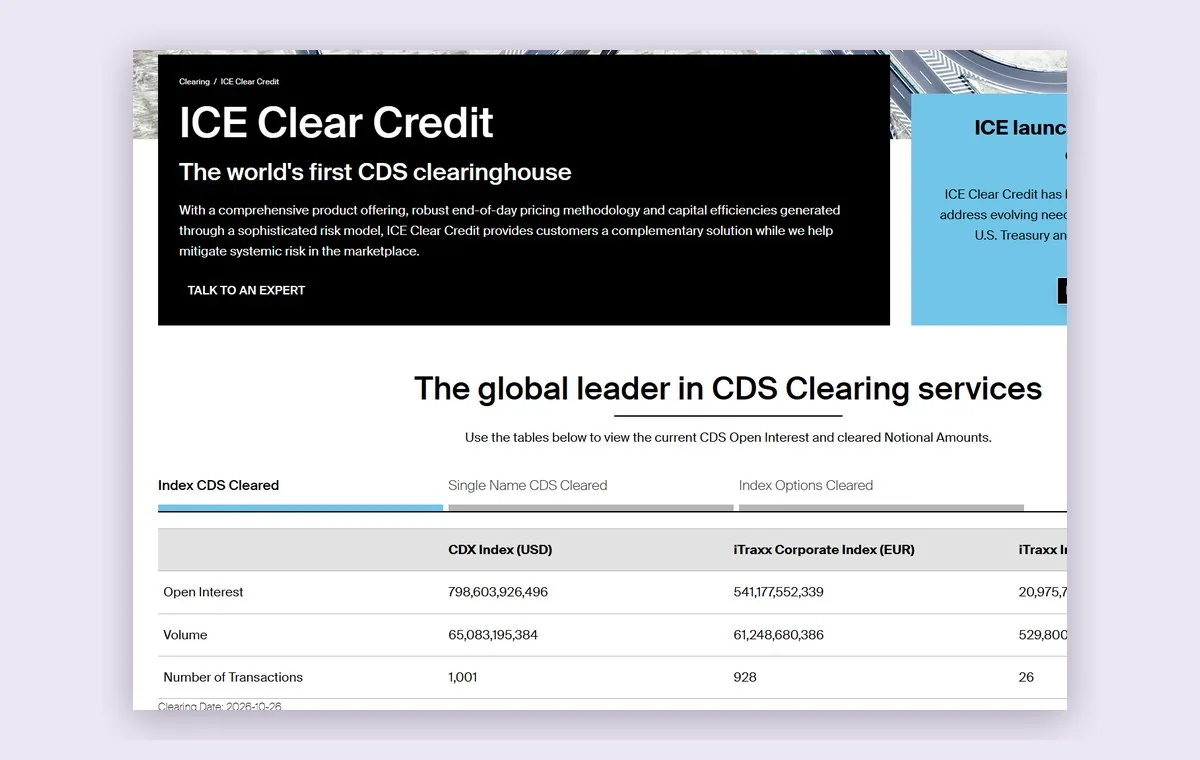
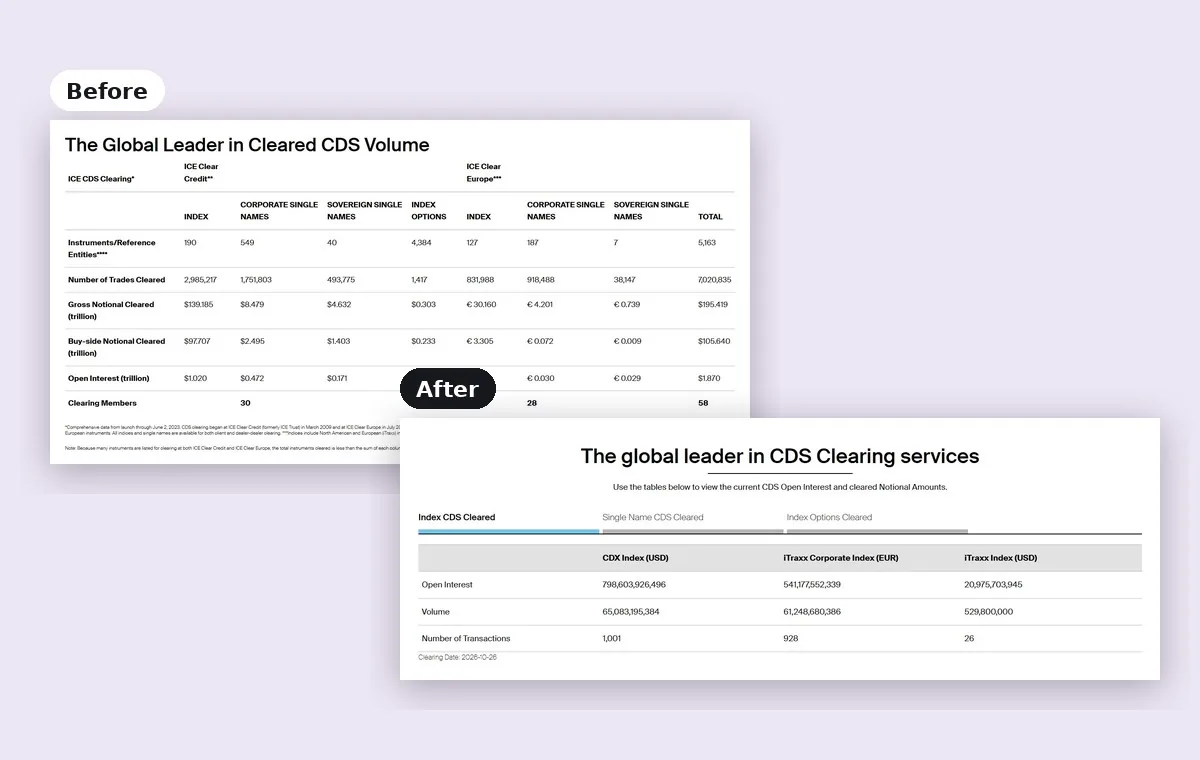
ICE: before/after card image; updated before caption
Claude-Session: https://claude.ai/code/session_01KzQiBS3jpiP9KBpjgHsbtK

diff --git a/index.html b/index.html
@@ -128,7 +128,7 @@ a{color:#1A44C8}a:hover{color:#10308F}
 </div>
 </a>
 <a href="ice.html" style="display: flex; flex-direction: column; background: #FFFFFF; border: 1px solid #DADBD6; border-radius: 20px; overflow: hidden; color: #16181D; text-decoration: none">
-<img loading="lazy" decoding="async" src="images/ice-card.webp" alt="ICE Clear Credit page with the daily CDS clearing data table" style="display: block; width: 100%; height: auto; aspect-ratio: 1200 / 760; object-fit: cover">
+<img loading="lazy" decoding="async" src="images/ice-card.webp" alt="Before: a dense nine-column CDS clearing table. After: the redesigned tabbed table with plain labels" style="display: block; width: 100%; height: auto; aspect-ratio: 1200 / 760; object-fit: cover">
 <div style="padding: 28px; display: flex; flex-direction: column; gap: 10px; flex: 1">
 <p style="margin: 0; font-size: 13px; font-weight: 600; letter-spacing: 0.08em; text-transform: uppercase; color: #4A4F5A">ICE · 2024–2025</p>
 <h3 style="margin: 0; font-family: 'Space Grotesk', sans-serif; font-size: 24px; font-weight: 600; line-height: 1.2">Building Trust Into High-Stakes Market Data</h3>

diff --git a/ice.html b/ice.html
@@ -71,7 +71,7 @@ a{color:#1A44C8}a:hover{color:#10308F}
 <figure style="margin: 0">
 <p style="margin: 0 0 14px; font-size: 13px; font-weight: 700; letter-spacing: 0.08em; text-transform: uppercase; color: #5A5F69">Before</p>
 <img decoding="async" fetchpriority="high" src="images/ice-before.webp" alt="The old ICE Clear Credit table: one nine-column grid comparing two clearing houses, with mixed currencies, figures in trillions and four footnotes" style="display: block; width: 100%; height: auto; border-radius: 14px; background: #FFFFFF; border: 1px solid #DDD3EA; box-shadow: 0 14px 32px rgba(50, 30, 80, 0.12)">
-<figcaption style="margin-top: 12px; font-size: 14px; line-height: 1.5; color: #4A4F5A">One dense grid, updated by hand, with data last refreshed June 2, 2023.</figcaption>
+<figcaption style="margin-top: 12px; font-size: 14px; line-height: 1.5; color: #4A4F5A">One dense grid, updated by hand, with busy data fields and multiple footnotes.</figcaption>
 </figure>
 <figure style="margin: 0">
 <p style="margin: 0 0 14px; font-size: 13px; font-weight: 700; letter-spacing: 0.08em; text-transform: uppercase; color: #5B3E96">After</p>
